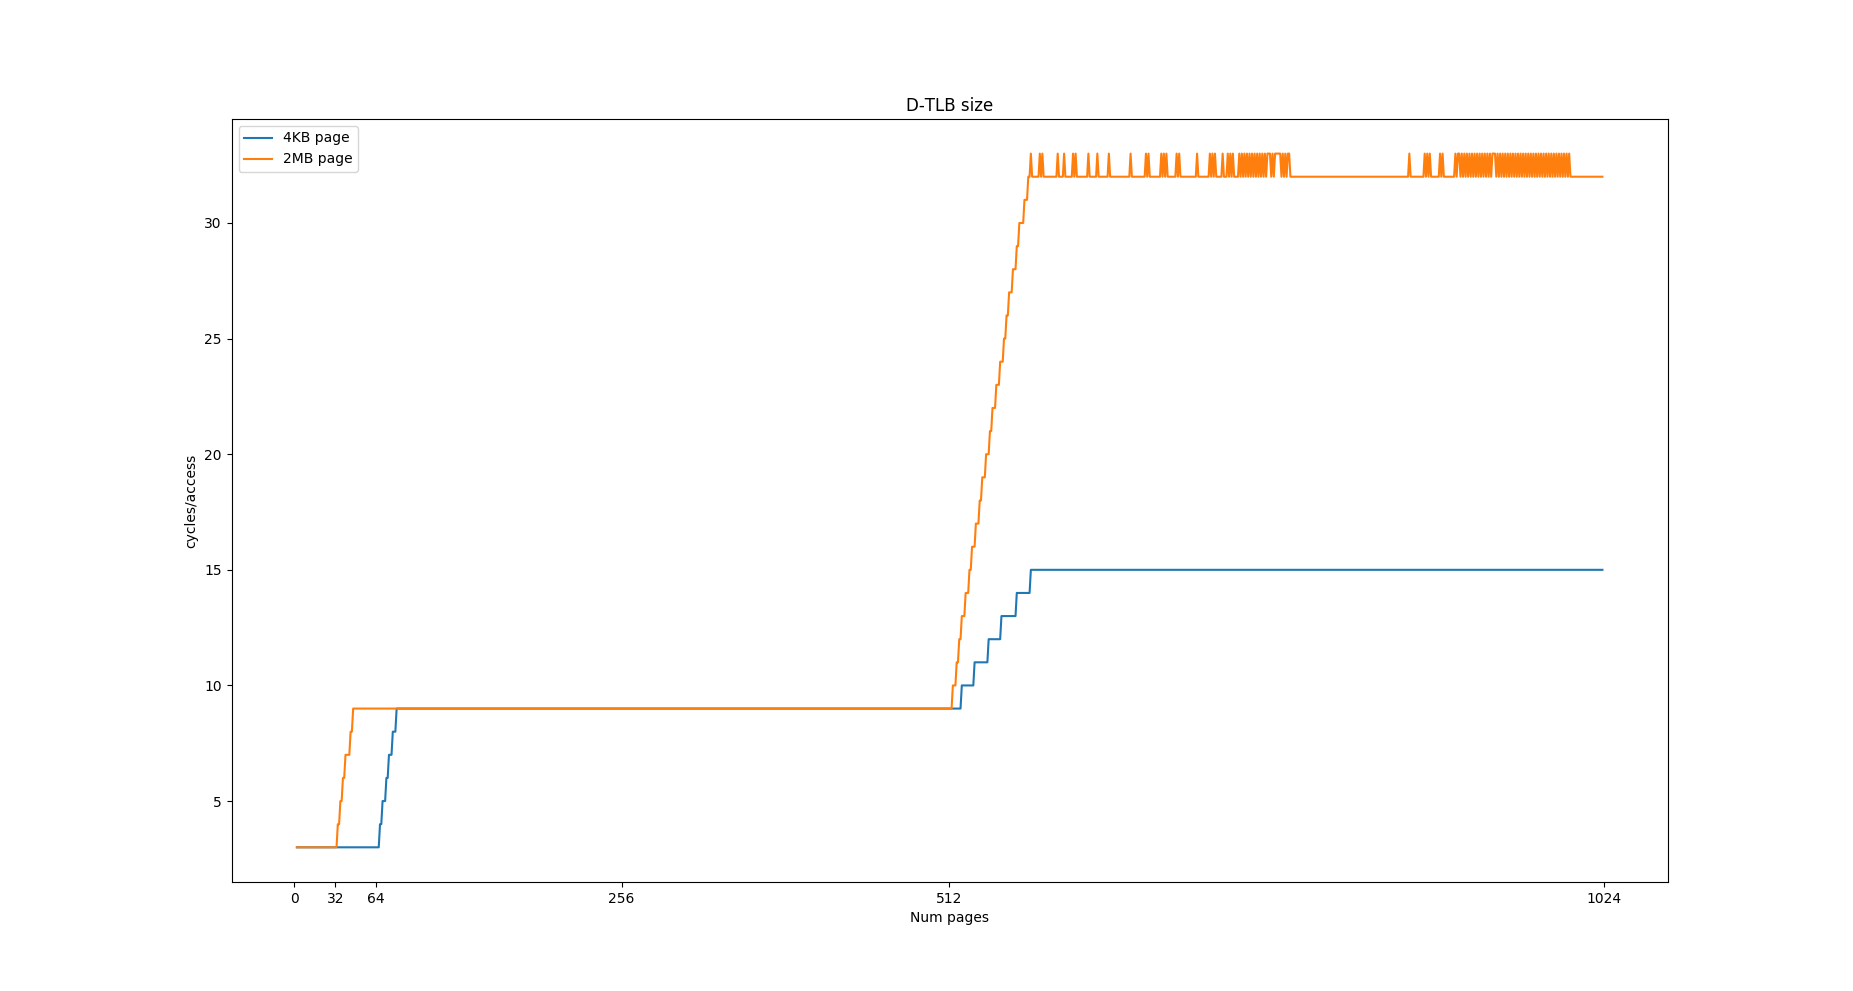
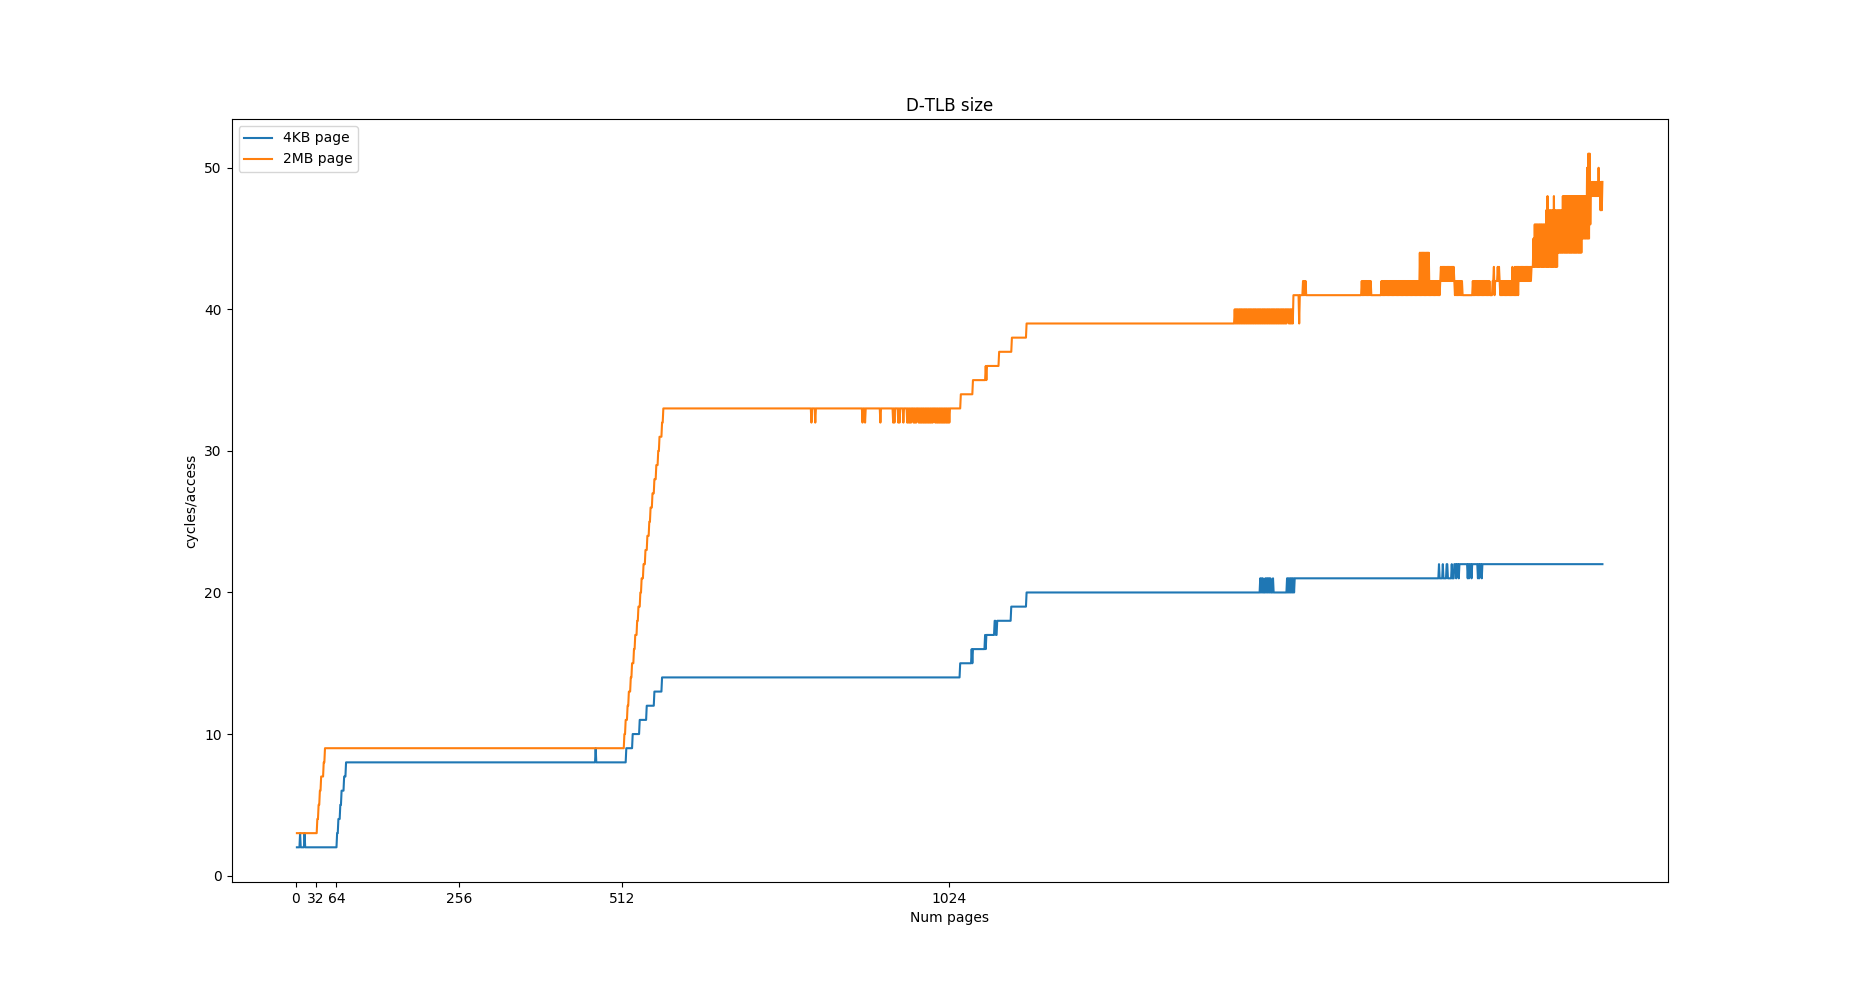
some small improvements

diff --git a/ex2/ucache.cpp b/ex2/ucache.cpp
@@ -475,10 +475,10 @@ void generateSizedRandomSequence(SizedBlock<SZ> *blocks, size_t numBlocks, size_
 }
 
 template<size_t PageSize>
-void measureL1dtlb(size_t setIndexBits, size_t numPages, const char *fileName, int tlbFlags)
+void measureL1dtlb(size_t setIndexBits, const char *fileName, int tlbFlags)
 {
     using PageBlock = SizedBlock<PageSize>;
-    size_t numBlocksToAlloc = numPages;
+    size_t numBlocksToAlloc = 2048;
     PageBlock *blocks = (PageBlock*)mmap(NULL, sizeof(PageBlock) * numBlocksToAlloc, PROT_READ|PROT_WRITE, MAP_PRIVATE|MAP_POPULATE|MAP_ANONYMOUS|tlbFlags, -1, 0U);
     if (blocks == (PageBlock*)-1)
     {
@@ -486,10 +486,10 @@ void measureL1dtlb(size_t setIndexBits, size_t numPages, const char *fileName, i
         return;
     }
     FILE *out = fopen(fileName, "w+");
-    for (size_t sz = 2U; sz < 1024U; ++sz)
+    for (size_t sz = 2U; sz < 2*1024U; ++sz)
     {
-        generateSizedRandomSequence(blocks, sz, setIndexBits);
-        const u64 numIterations = 4U * 1024U * 1024U;
+        generateSizedRandomSequence<PageSize>(blocks, sz, setIndexBits);
+        const u64 numIterations = 8U * 1024U * 1024U;
         PageBlock *cBlock = blocks;
         for (u64 i = 0; i < numIterations; ++i)
         {
@@ -708,10 +708,10 @@ int main(int argc, char *argv[])
         break;
     case RunDTLB:    
         // This has to be changed. It's hardcoded for Sandy Bridge :)
-        measureL1dtlb<4096U>(6U, 256*1024, "l1_dtlb_size.txt", 0);
+        measureL1dtlb<4096U>(6U, "l1_dtlb_size.txt", 0);
         break;
     case RunDTLB2MB:
-        measureL1dtlb<1024U*1024U*2U>(6U, 1024U, "l1_dtlb2mb_size.txt", MAP_HUGETLB);
+        measureL1dtlb<1024U*1024U*2U>(6U, "l1_dtlb2mb_size.txt", MAP_HUGETLB);
         break;
     case RunITLB:
         generateInstructionTLBSizeData<4096U>(6U, 256U*1024U, "itlb_size_data.txt", 0);
